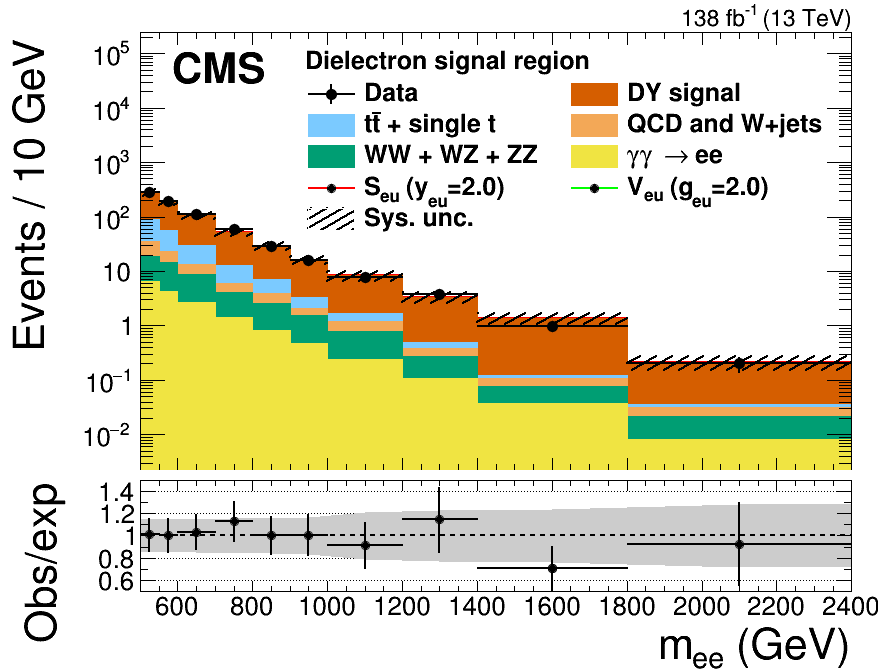
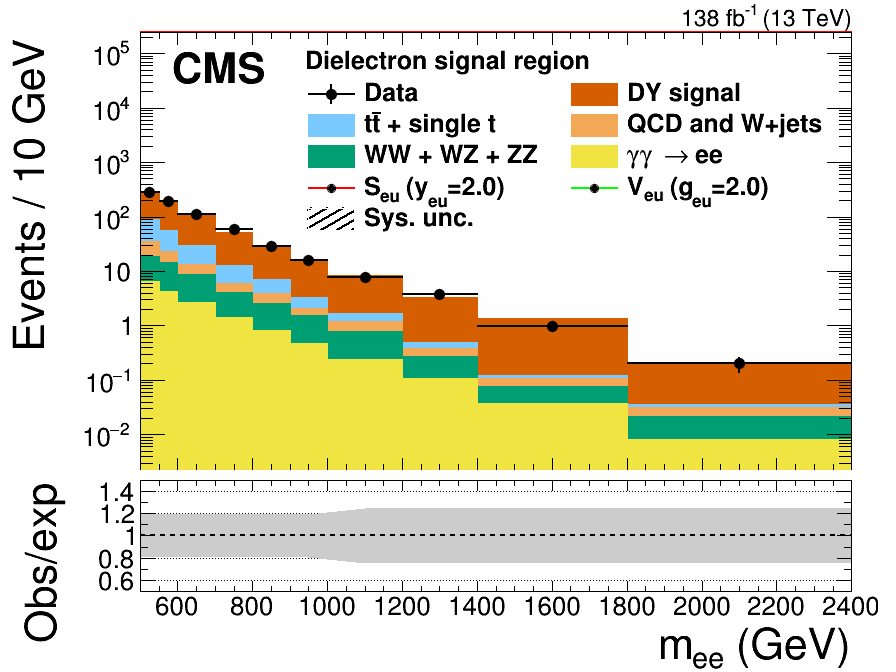
checking plots

diff --git a/plots/ElEl/save_hists.C b/plots/ElEl/save_hists.C
@@ -30,7 +30,7 @@
 #include "../../utils/Colors.h"
 
 const int type = FLAG_ELECTRONS;
-const int year = 2016;
+const int year = 2018;
 const bool write_out = true;
 
 char *fout_name = "ElEl/LQ_saved_hists.root";
